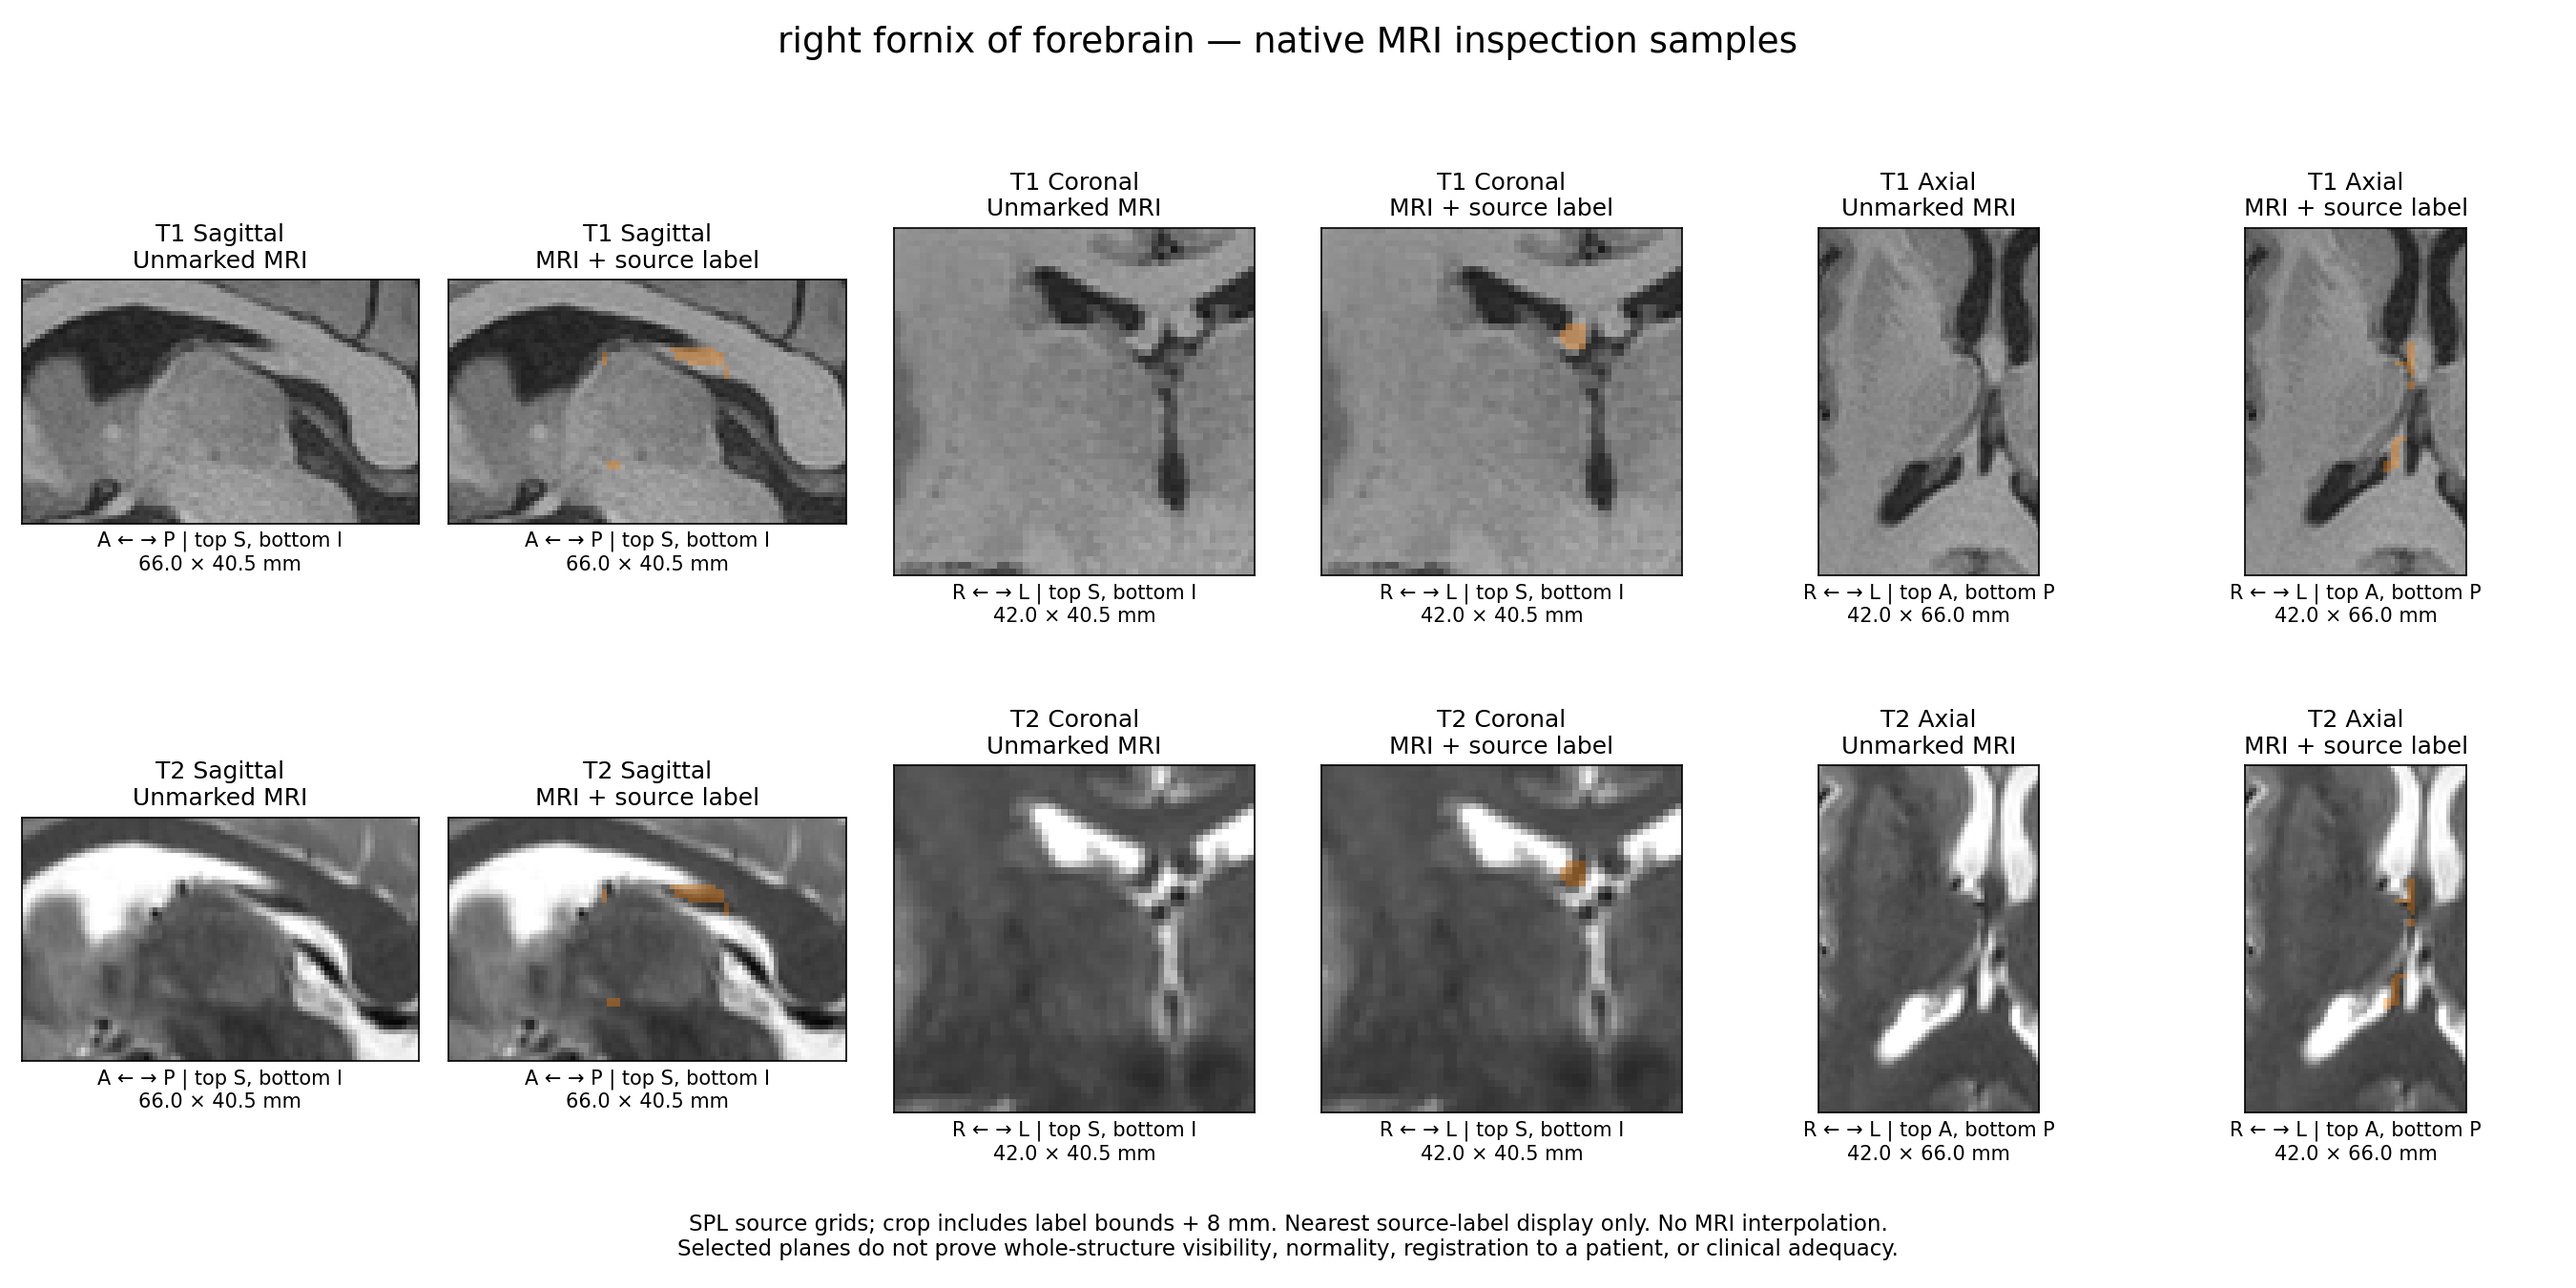
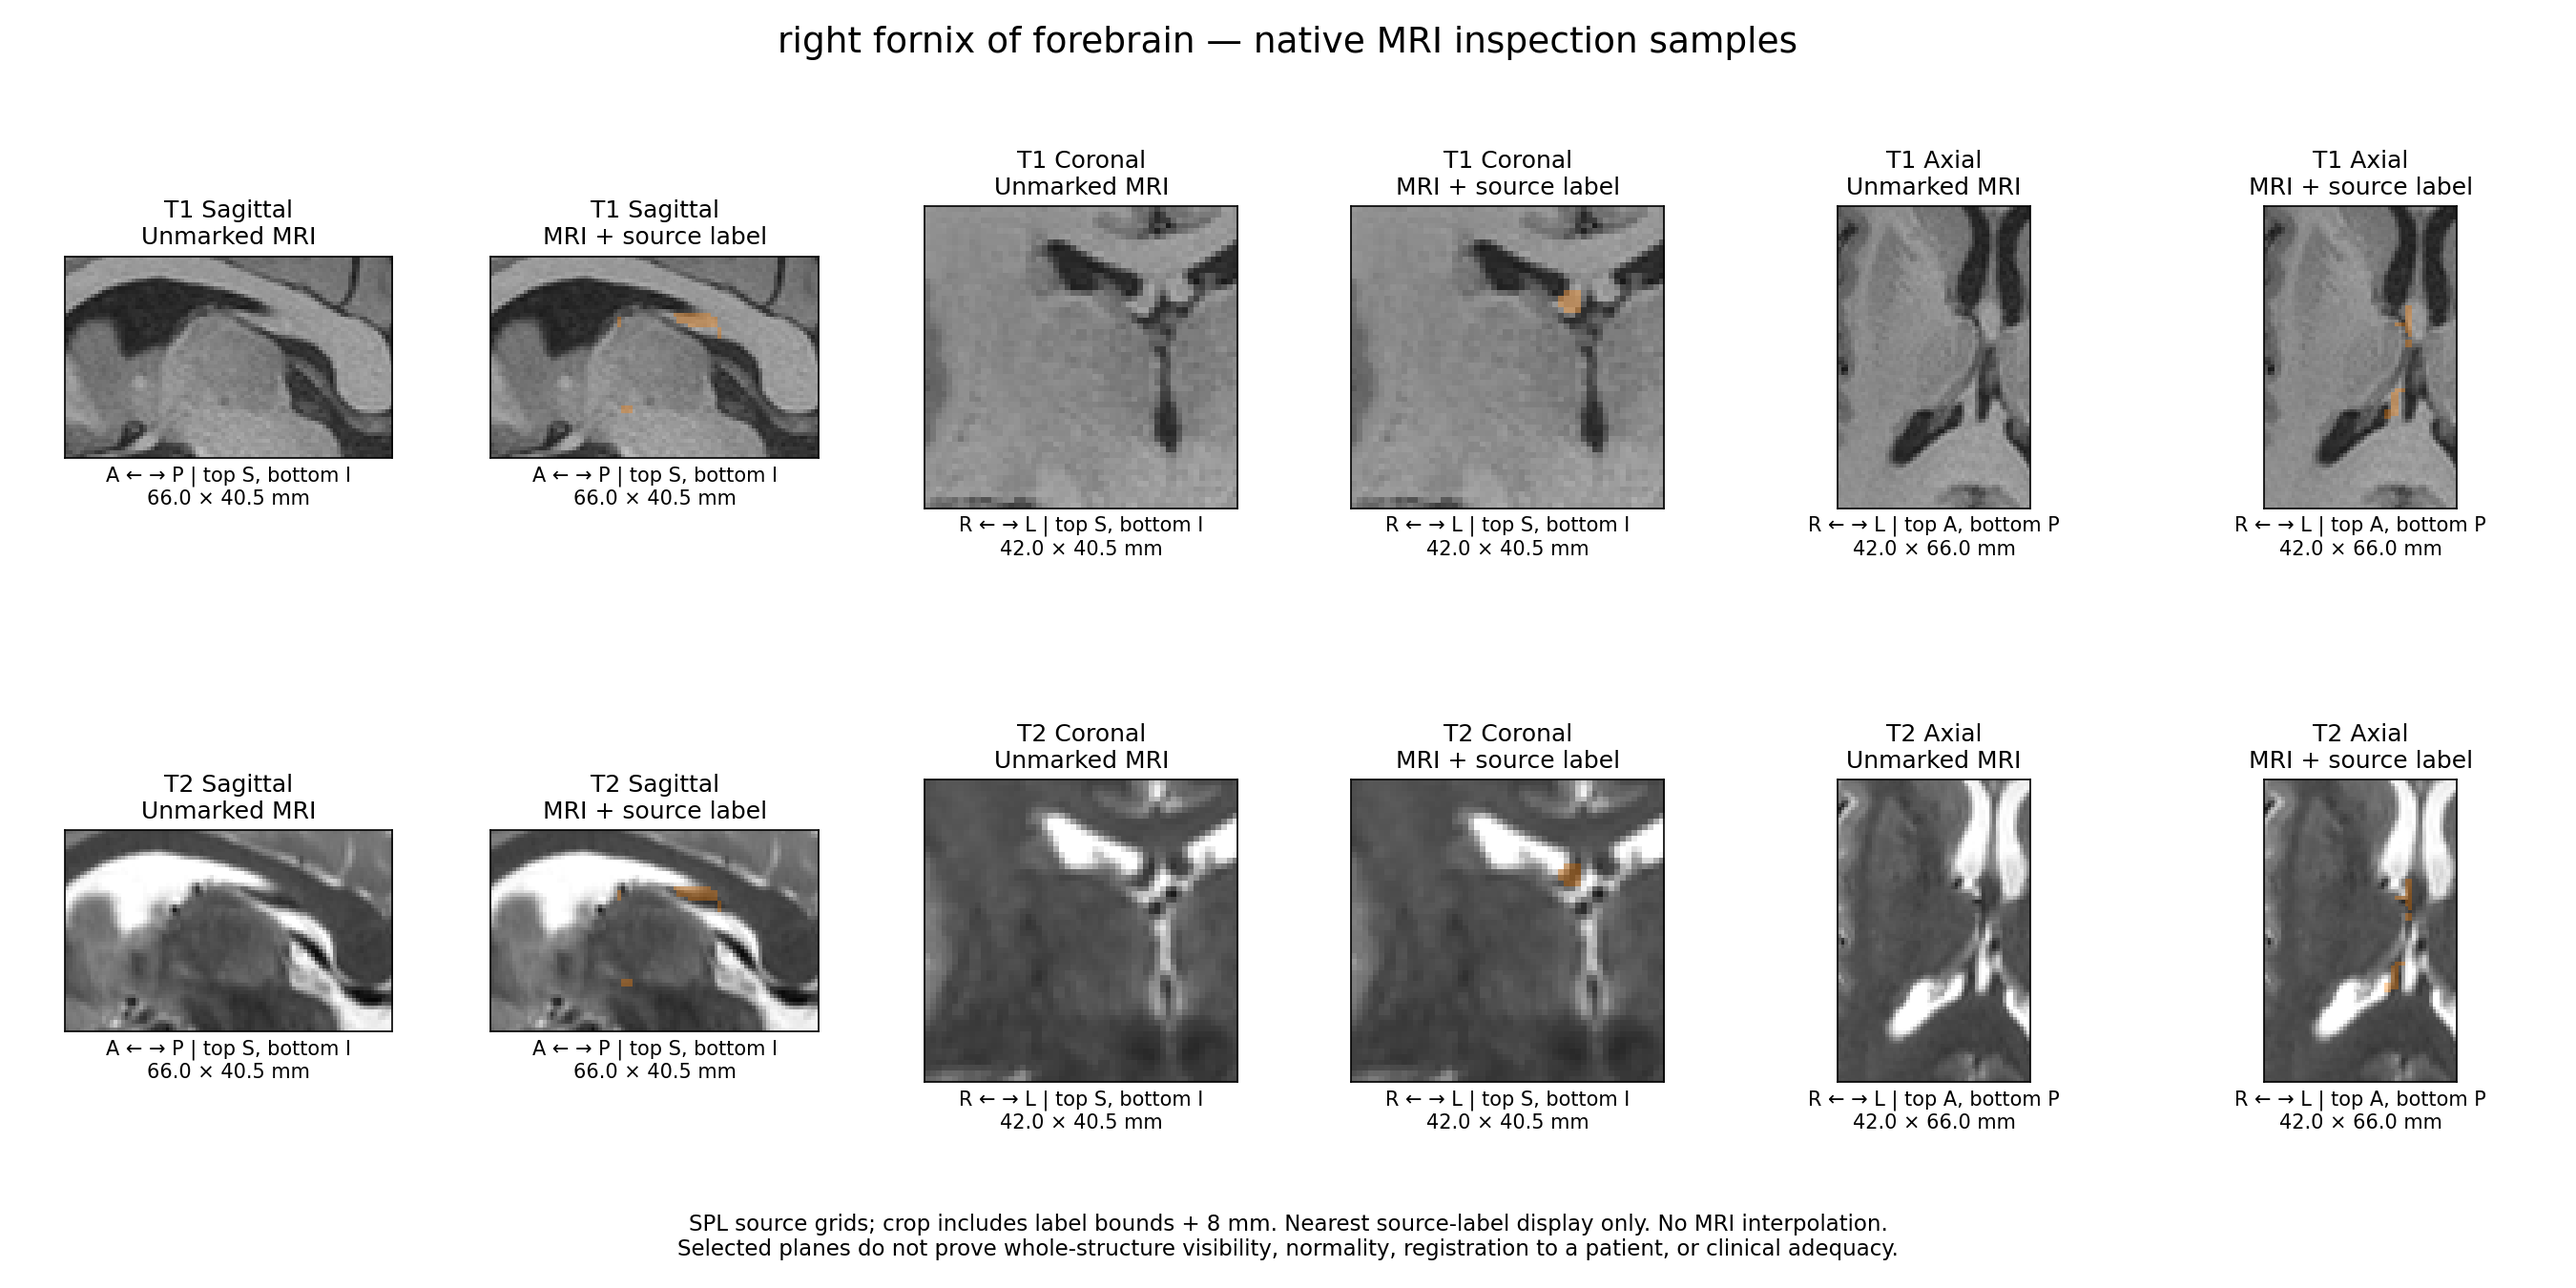
Separate native review rows to prevent caption overlap

diff --git a/tools/anatomy_sources/render_epilepsy_mesial_review.py b/tools/anatomy_sources/render_epilepsy_mesial_review.py
@@ -34,7 +34,7 @@ def main():
                 panels.append({'modality':modality,'view':view,'normalSourceAxis':normal,'sourceSlice':ijk[normal],'horizontalSourceAxis':u,'verticalSourceAxis':v,'sourceCropLower':lower.tolist(),'sourceCropUpperExclusive':upper.tolist(),'window':[low,high],'shape':list(values.shape),'originalPlaneSampleSHA256':sha(values.tobytes()),'unmarkedRGB_SHA256':sha(rgb.tobytes()),'annotatedRGB_SHA256':sha(marked.tobytes()),'labelPixels':int(mask.sum())})
         fig.suptitle(structure['sourceName']+' — native MRI inspection samples',fontsize=18)
         fig.text(.5,.025,'SPL source grids; crop includes label bounds + 8 mm. Nearest source-label display only. No MRI interpolation.\nSelected planes do not prove whole-structure visibility, normality, registration to a patient, or clinical adequacy.',ha='center',fontsize=11)
-        fig.tight_layout(rect=[0,.08,1,.93],h_pad=4,w_pad=1.5);name=f'source-label-{code}.png';fig.savefig(destination/name,dpi=150);plt.close(fig)
+        fig.subplots_adjust(left=.025,right=.98,bottom=.16,top=.84,wspace=.3,hspace=.9);name=f'source-label-{code}.png';fig.savefig(destination/name,dpi=150);plt.close(fig)
         evidence.append({'code':code,'name':structure['sourceName'],'image':name,'sha256':sha((destination/name).read_bytes()),'panels':panels,'clinicalVisibilityReviewed':False})
     proof={'sourceManifestSHA256':MANIFEST_SHA256,'generatorSHA256':sha(Path(__file__).read_bytes()),'reviewSheets':evidence,'MRIResampled':False,'sourceLabelsDisplayedBy':'Nearest native label-cell assignment in declared source world coordinates','clinicalApproval':False,'completeReportingCoverage':False}
     (destination/'proof.json').write_text(json.dumps(proof,indent=2)+'\n');print(json.dumps({'reviewSheets':len(evidence),'pairedPlanes':sum(len(x['panels'])for x in evidence),'clinicalAdequacyClaimed':False}))
